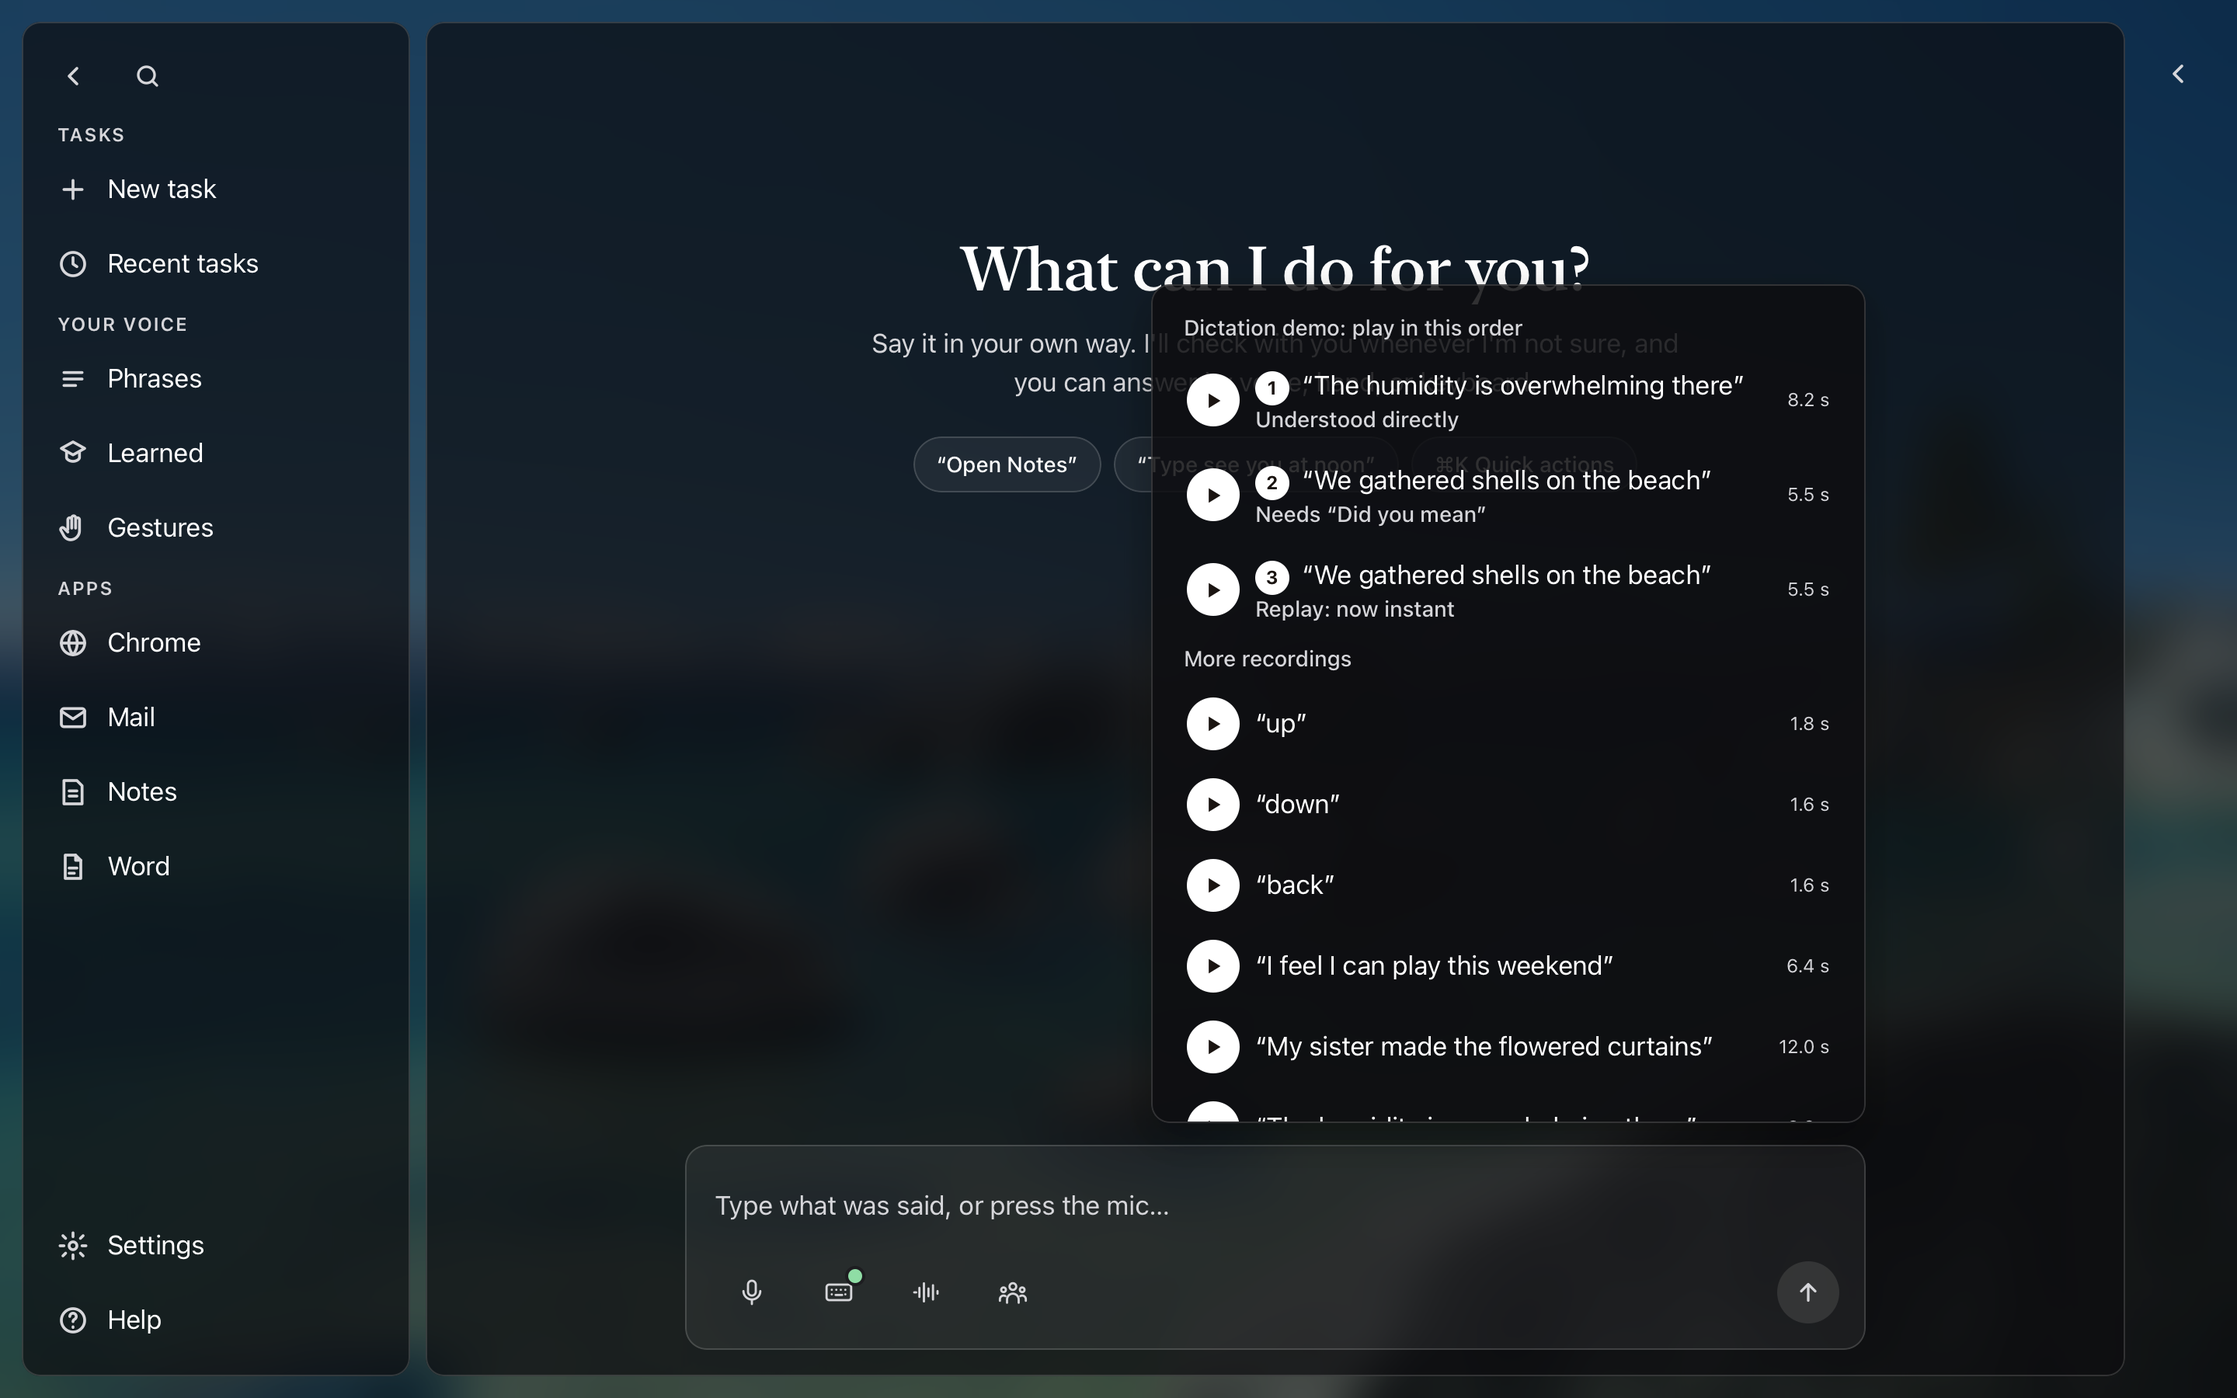
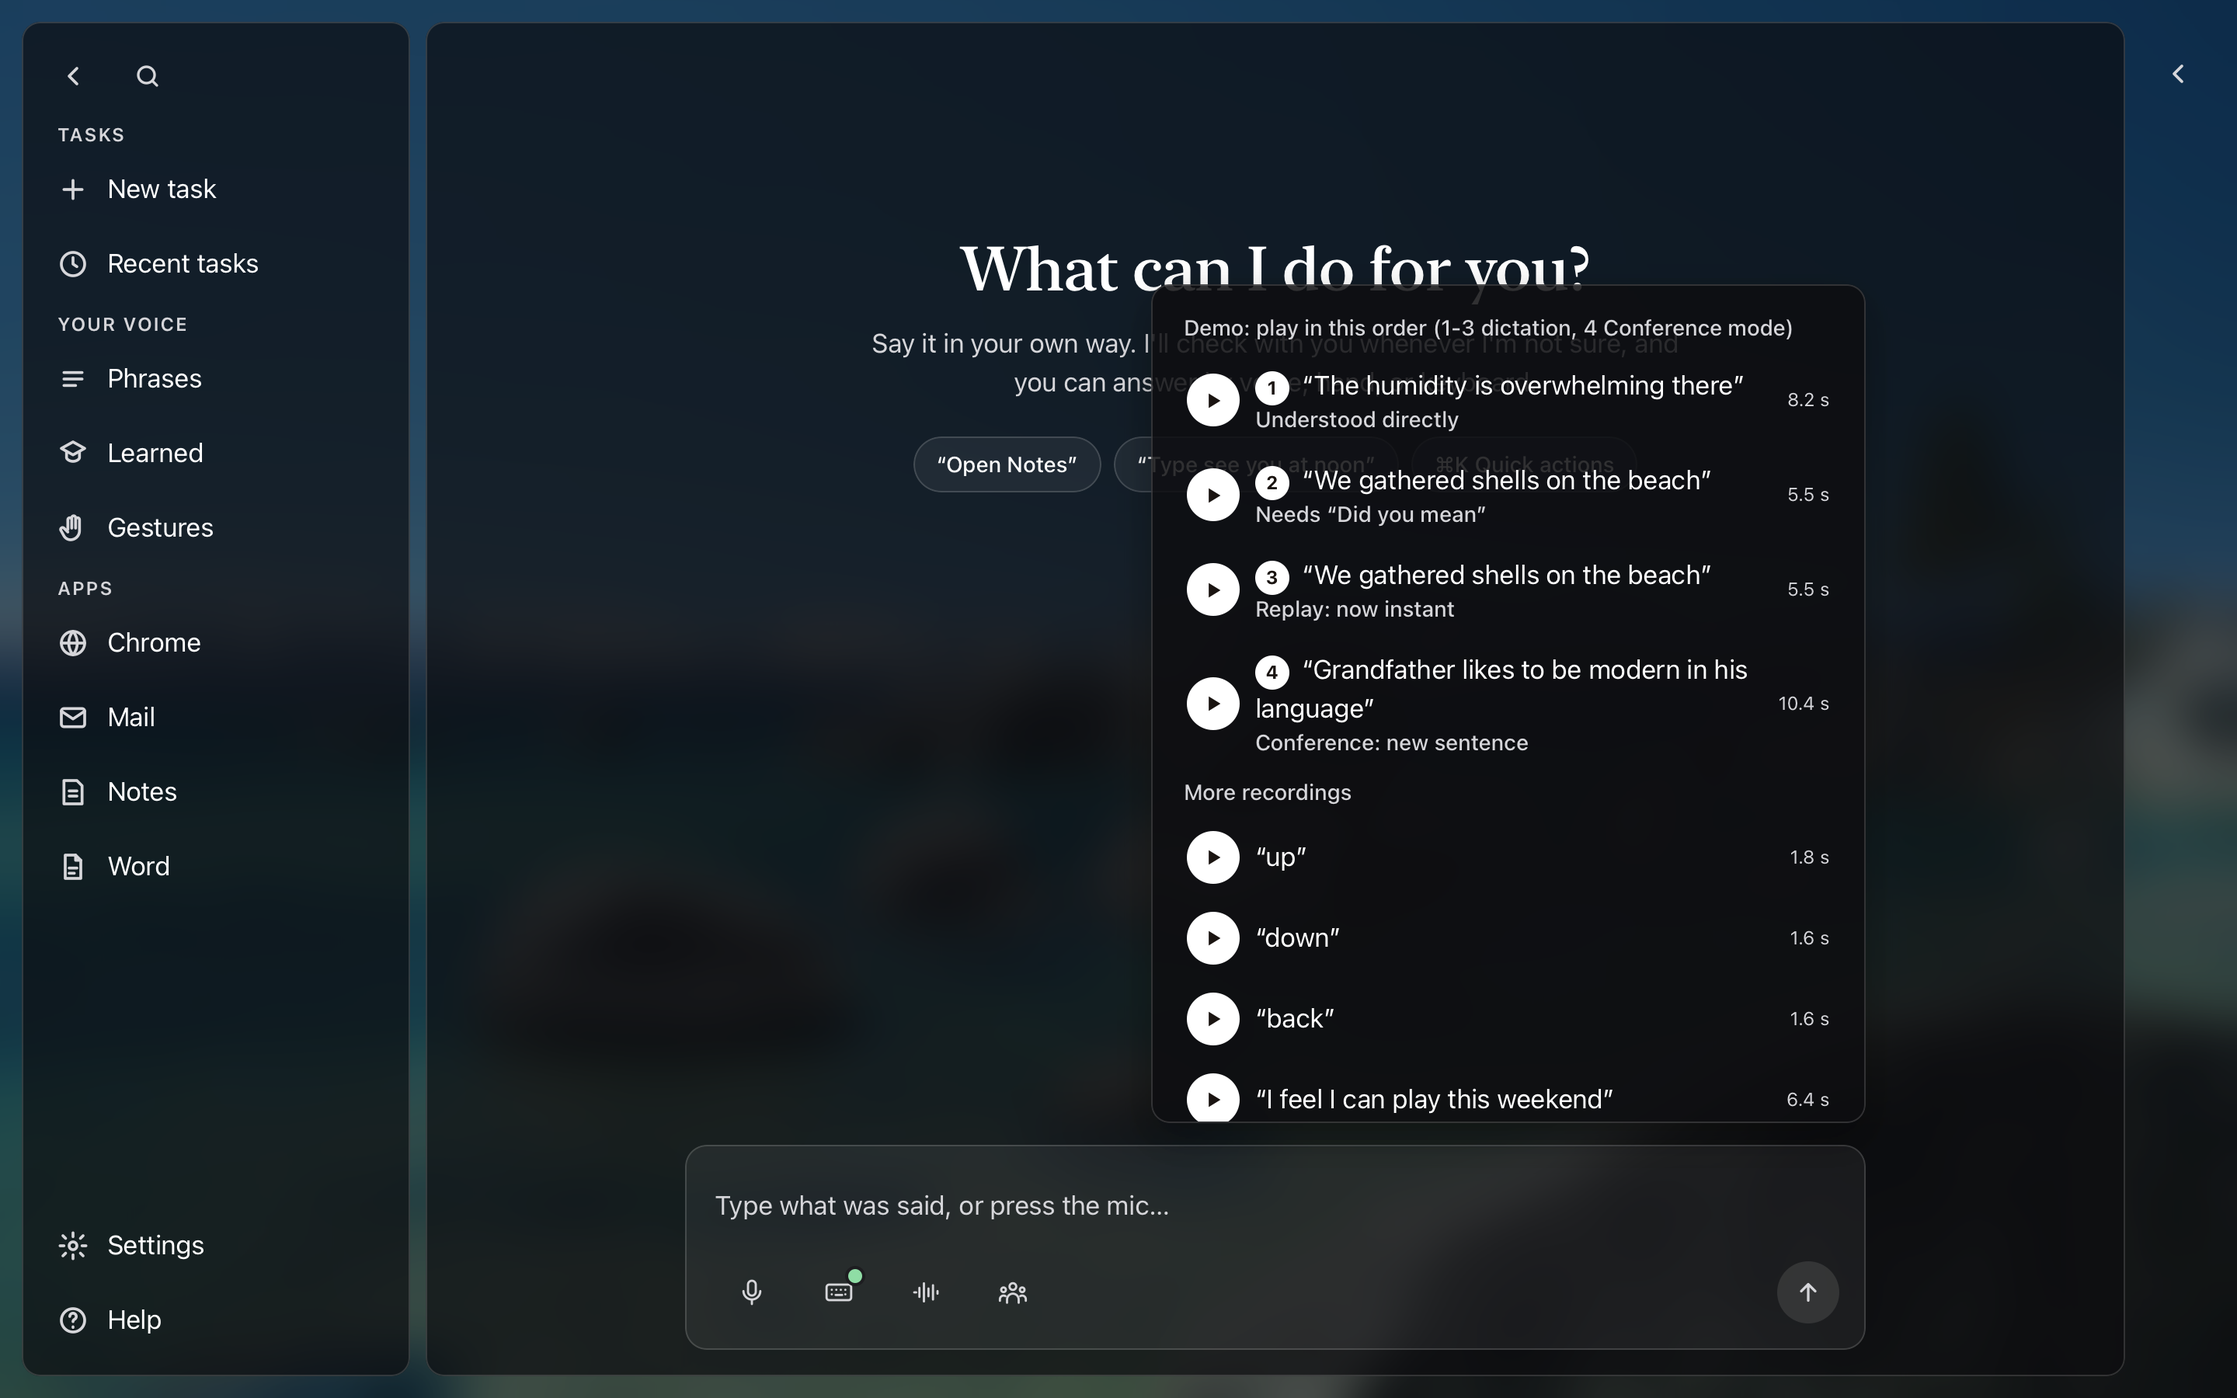
Demo clip 4 (Cmd+4, Conference: new sentence); Conference header always visible; screenshots retaken
Clip 4 is M04_2_0007 'Grandfather likes to be modern in his language': with the real WhisperKit and Bonsai,
3 of 3 runs gave one 'Did you mean' with the right sentence (card after 1.6-2.3 s); its TTSKit audio is a
whole sentence made at startup (it is one of the phrases).

Changed region(s): [[0.5312, 0.4667, 0.7812, 0.8089], [0.5312, 0.2178, 0.8125, 0.2489]]

diff --git a/ui/static/cowork.html b/ui/static/cowork.html
@@ -302,15 +302,18 @@ button.chip { min-height: var(--target); }
 /* ---- Conference mode: a calm view, readable from across a table ---- */
 .mode-label { max-width: 760px; margin: 0 auto 6px; padding-left: 18px; font: var(--label); color: var(--accent); }
 .mode-label[hidden] { display: none; }
-.conf { max-width: 860px; margin: 0 auto; padding: 22px 26px 30px; display: flex; flex-direction: column; gap: 22px; min-height: 100%; }
-.conf-head { display: flex; align-items: center; gap: 12px; flex-wrap: wrap; color: var(--muted); font: var(--label); }
+.conf { max-width: 860px; margin: 0 auto; padding: 0 26px 24px; display: flex; flex-direction: column; gap: 18px; min-height: 100%; }
+/* The header stays at the top (it was scrolled out of sight, or cut off, when the view was taller than the window). */
+.conf-head { position: sticky; top: 0; z-index: 3; display: flex; align-items: center; gap: 12px; color: var(--muted); font: var(--label);
+             padding: 14px 0 10px; background: rgba(16, 16, 18, .92); border-bottom: 1px solid var(--line); }
+.conf-head .ways { white-space: nowrap; }
 .conf-head .badge { display: inline-flex; align-items: center; gap: 8px; color: var(--accent); font-weight: 600; }
 .conf-head .badge svg { width: 18px; height: 18px; }
 .conf-head .ways { margin-left: auto; }
-.transcript { display: flex; flex-direction: column; justify-content: flex-end; gap: 14px; min-height: 160px; }
-.transcript .past { font: 400 24px/1.35 var(--serif); color: var(--muted); margin: 0; }
+.transcript { display: flex; flex-direction: column; justify-content: flex-end; gap: 10px; }
+.transcript .past { font: 400 clamp(18px, 2vw, 24px)/1.35 var(--serif); color: var(--muted); margin: 0; }
 .transcript .past.stopped { text-decoration: line-through; opacity: .7; }
-.transcript .now { font: 500 46px/1.2 var(--serif); margin: 0; overflow-wrap: anywhere; }
+.transcript .now { font: 500 clamp(28px, 3.6vw, 46px)/1.2 var(--serif); margin: 0; overflow-wrap: anywhere; }
 .transcript .now.stopped { text-decoration: line-through; color: var(--muted); }
 .transcript .state { display: flex; align-items: center; gap: 10px; font: var(--title); font-weight: 500; color: var(--muted); }
 .transcript .state svg { width: 22px; height: 22px; }
@@ -320,7 +323,7 @@ button.chip { min-height: var(--target); }
 .transcript .state .loop { border-color: rgba(242,196,107,.3); border-top-color: var(--warn); }
 .transcript .empty-said { font: 400 28px/1.35 var(--serif); color: var(--muted); margin: 0; }
 .conf-quick h3 { font: var(--label); color: var(--muted); margin: 0 0 10px; }
-.conf-quick .btn { min-height: 84px; }
+.conf-quick .btn { min-height: 68px; }
 .conf .working { display: flex; align-items: center; gap: 10px; color: var(--muted); }
 .conf .working svg { width: 20px; height: 20px; }
 
@@ -749,10 +752,10 @@ const SAID_STATE = { preparing: "Preparing voice…", speaking: "Speaking…", s
 function confHtml(s) {
   const said = s.said || [];
   const counts = s.counts || {};
-  let html = `<div class="conf"><div class="conf-head"><span class="badge">${sv(MODE_ICON.conference)}Conference mode</span><span>Speaking for you. Nothing is said until you confirm it.</span><span class="ways">${counts.examples ?? 0} ways you say things</span></div><div class="transcript">`;
-  if (!said.length) html += `<p class="empty-said">Say a sentence, choose a test clip, or pick a quick phrase below. Once you confirm it, I say it aloud to the room.</p>`;
+  let html = `<div class="conf"><div class="conf-head"><span class="badge">${sv(MODE_ICON.conference)}Conference mode</span><span class="ways">${counts.examples ?? 0} ways you say things</span></div><div class="transcript">`;
+  if (!said.length) html += `<p class="empty-said">Say a sentence, choose a test clip, or pick a quick phrase below. Nothing is said until you confirm it; then I say it aloud to the room.</p>`;
   const asking = !!s.question;   // a card needs the room: only the newest sentence stays above it
-  said.slice(asking ? -1 : -4, -1).forEach((e) => { html += `<p class="past ${e.status === "stopped" ? "stopped" : ""}">${esc(e.text)}</p>`; });
+  said.slice(asking ? -1 : -3, -1).forEach((e) => { html += `<p class="past ${e.status === "stopped" ? "stopped" : ""}">${esc(e.text)}</p>`; });
   const now = said[said.length - 1];
   if (now) {
     const icon = now.status === "preparing" ? '<span class="loop" aria-hidden="true"></span>' : now.status === "said" ? ICON.check : now.status === "stopped" ? ICON.undo : ICON.speaker;
@@ -912,7 +915,7 @@ function renderModal() {
       <tr><td>Dictation</td><td>Confirmed sentences are typed into the app you are working in. Say “type …” to dictate anything.</td></tr>
       <tr><td>Conference mode</td><td>The people icon in the composer. Cowork speaks for you in a meeting: each sentence is said aloud once you confirm it (never before). Commands are off until you switch back. Quick phrases: 1-4, a thumb, or say the number.</td></tr>
       <tr><td>Stop everything</td><td>Say “stop” or “cancel”, or press Esc twice: speaking, typing and anything waiting stop at once. What was already done stays (use Undo for that).</td></tr>
-      <tr><td>Demo clips</td><td>⌘1, ⌘2, ⌘3 play test clips 1 to 3.</td></tr>
+      <tr><td>Demo clips</td><td>⌘1 to ⌘4 play demo clips 1 to 4 (4 is for Conference mode).</td></tr>
       <tr><td>Quick actions</td><td>⌘K, or say “quick actions”.</td></tr>
       <tr><td>Results</td><td><button class="link-btn" data-view="results">See how well Cowork understands impaired speech</button></td></tr>
       <tr><td>Panels</td><td>Say “show learned”, “show progress” or “show camera”.</td></tr></table></div>`;
@@ -1157,7 +1160,7 @@ function showClips() {
   const clips = (S && S.clips) || [];
   const row = (c, n) => `<button data-clip="${esc(c.id)}"><span class="play">${ICON.play}</span><span>${n ? `<b class="step-n">${n}</b> ` : ""}“${esc(c.said)}”${c.label ? `<span class="clip-label">${esc(c.label)}</span>` : ""}</span><span class="secs">${c.seconds ? c.seconds.toFixed(1) + " s" : ""}</span></button>`;
   const demo = clips.filter((c) => c.demo), more = clips.filter((c) => !c.demo);
-  $("clips").innerHTML = (clips.length ? `<h4>Dictation demo: play in this order</h4>` + demo.map((c, i) => row(c, i + 1)).join("") +
+  $("clips").innerHTML = (clips.length ? `<h4>Demo: play in this order (1-3 dictation, 4 Conference mode)</h4>` + demo.map((c, i) => row(c, i + 1)).join("") +
     (more.length ? `<h4>More recordings</h4>` + more.map((c) => row(c, 0)).join("") : "") : '<p class="feed-empty" style="padding:0 8px">No clips found on this Mac.</p>') + `<div class="caption">${esc((S && S.credit) || "")}</div>`;
   $("clips").hidden = false; $("clipBtn").setAttribute("aria-expanded", "true");
   const first = $("clips").querySelector("button"); if (first) first.focus();
@@ -1167,8 +1170,8 @@ function hideClips() { $("clips").hidden = true; $("clipBtn").setAttribute("aria
 let lastEsc = 0;
 document.addEventListener("keydown", (e) => {
   if (!S) return;
-  // Demo backup: Cmd+1, Cmd+2, Cmd+3 play demo clips 1-3 (only in Cowork's own window)
-  if (e.metaKey && !e.shiftKey && !e.altKey && ["1", "2", "3"].includes(e.key)) {
+  // Demo backup: Cmd+1 to Cmd+4 play demo clips 1-4 (only in Cowork's own window)
+  if (e.metaKey && !e.shiftKey && !e.altKey && ["1", "2", "3", "4"].includes(e.key)) {
     e.preventDefault();
     post("/api/clip", { id: "demo" + e.key }).then((r) => r && r.problem && showToast(r.problem));
     return;

diff --git a/ui/clips.py b/ui/clips.py
@@ -35,7 +35,7 @@ CLIP_IDS = [   # commands first, then sentences (all from evaluation fold 0, hel
 ]
 
 
-# The dictation demo, in this order (checked with the real WhisperKit and Bonsai on 2026-11-14):
+# The demo, in this order (checked with the real WhisperKit and Bonsai): clips 1-3 dictation, clip 4 Conference mode
 DEMO = [
     ("M04_2_0264", "Understood directly",
      "WhisperKit hears \u201cBut humanity is overwhelming.\u201d; it is typed at once"),
@@ -43,12 +43,15 @@ DEMO = [
      "WhisperKit hears \u201cWe can get a joke on the beach.\u201d; one Yes, then it is typed and learned"),
     ("M04_2_0174", "Replay: now instant",
      "the same recording again: recognised from what was learned, typed instantly"),
+    ("M04_2_0007", "Conference: new sentence",
+     "WhisperKit hears \u201cCould grandpa like to be a model in his language?\u201d; \u201cDid you mean\u201d "
+     "Grandfather likes to be modern in his language? Yes: said aloud (checked 3 of 3 runs, 2026-11-15)"),
 ]
 
 
 def load_clips() -> list[dict]:
     """[{"id", "recording", "path", "said", "heard", "seconds", "label", "note", "demo"}]:
-    the 3 demo clips first (in order), then the other recordings."""
+    the 4 demo clips first (in order), then the other recordings."""
     try:
         index = {u["id"]: u for u in json.loads((TORGO / "utterances.json").read_text())}
         heard = {}

diff --git a/tests/test_cowork.py b/tests/test_cowork.py
@@ -379,9 +379,12 @@ clips = load_clips()
 if not (config.ROOT / "datasets" / "torgo").exists():
     print("SKIP  TORGO test clips: datasets/torgo is not on this Mac (it is not in the repo; see README.md)")
 else:
-    check("TORGO test clips found (3 demo + the rest)", len(clips), len(CLIP_IDS) + 3)
-    check("  ...the demo three first, in order", [c["label"] for c in clips[:3]],
-          ["Understood directly", "Needs \u201cDid you mean\u201d", "Replay: now instant"])
+    check("TORGO test clips found (4 demo + the rest)", len(clips), len(CLIP_IDS) + 4)
+    check("  ...the demo four first, in order", [c["label"] for c in clips[:4]],
+          ["Understood directly", "Needs \u201cDid you mean\u201d", "Replay: now instant", "Conference: new sentence"])
+    from tts.lines import to_prepare  # noqa: E402
+    check("  ...clip 4's sentence is made whole at startup (instant in Conference mode)",
+          "Grandfather likes to be modern in his language." in to_prepare(BASE, []), True)
     check("  ...the replay is the same recording", clips[1]["recording"] == clips[2]["recording"], True)
     check("  ...credit names the dataset", "TORGO" in CREDIT and "Rudzicz" in CREDIT, True)
     core, tts, actions = make()

diff --git a/tests/test_composer.py b/tests/test_composer.py
@@ -172,10 +172,10 @@ check("  ...and it stays open", js("document.querySelector('.app').classList.con
 played, stopped = [], []
 core.play_clip = lambda clip_id, play_sound=True: played.append(clip_id) or ""
 core.stop_all = lambda: stopped.append(1)
-for n in ("1", "2", "3"):
+for n in ("1", "2", "3", "4"):
     js(f"document.dispatchEvent(new KeyboardEvent('keydown', {{key: '{n}', metaKey: true, bubbles: true}}))")
 pump(0.5)
-check("Cmd+1, Cmd+2, Cmd+3 play demo clips 1-3", played, ["demo1", "demo2", "demo3"])
+check("Cmd+1 to Cmd+4 play demo clips 1-4", played, ["demo1", "demo2", "demo3", "demo4"])
 js("document.dispatchEvent(new KeyboardEvent('keydown', {key: 'Escape', bubbles: true})); document.dispatchEvent(new KeyboardEvent('keydown', {key: 'Escape', bubbles: true}))")
 pump(0.5)
 check("Esc twice stops everything", len(stopped), 1)

diff --git a/docs/video_script.md b/docs/video_script.md
@@ -21,7 +21,7 @@
 | 0:40-0:50 | Click the keyboard icon so dictation is on (green dot, Word). Press Cmd+1: clip 1 plays out loud and is typed into Word. | "Now the voice of a man with cerebral palsy, from the TORGO research recordings. WhisperKit heard 'But humanity is overwhelming'. Cowork typed what he meant." |
 | 0:50-1:05 | Press Cmd+2: "Did you mean: We gathered shells on the beach?" Raise your RIGHT hand and hold it until the bar fills. It is typed into Word. | "When it isn't sure, it asks. He can answer with a hand." |
 | 1:05-1:15 | Press Cmd+3 (the same recording again): typed at once, "Recognised instantly". | "It learned. Next time, no question at all." |
-| 1:15-1:40 | Click the people icon (Switch to Conference mode). Press Cmd+1, answer Yes (Enter or right hand). The sentence is spoken aloud. Then press 2 for "I agree." | "In a meeting, Cowork speaks for him, in a natural voice, only after he confirms." |
+| 1:15-1:40 | Click the people icon (Switch to Conference mode). Press Cmd+4 (demo clip 4, a sentence not used before): WhisperKit hears "Could grandpa like to be a model in his language?", the card asks "Did you mean: Grandfather likes to be modern in his language?". Answer Yes (Enter or right hand): it is spoken aloud at once. Then press 2 for "I agree." | "In a meeting, Cowork speaks for him, in a natural voice, only after he confirms." |
 | 1:40-1:55 | Press Cmd+K, type "results", Enter. The Results view: 8% vs 70%, 0% confidently wrong. | "WhisperKit alone got 8% exactly right. Cowork reached the right meaning 70% of the time, and was never confidently wrong." |
 | 1:55-2:00 | Close the Results view. | "Bonsai and Argmax, fully offline. Cowork." |
 
@@ -29,4 +29,4 @@
 - A wrong guess: say "no" (or press Esc), it offers other options; or say "stop".
 - Anything stuck: press Esc twice (stops everything), then "New task".
 - The window is in the corner and you need the full one: say "show Cowork", or click the expand icon.
-- Cmd+1/2/3 only work while Cowork's full window is in front.
+- Cmd+1 to Cmd+4 only work while Cowork's full window is in front.

diff --git a/docs/MORNING.md b/docs/MORNING.md
@@ -39,6 +39,15 @@ could be tried live. Please try each once (2 minutes):
 - [ ] Mini window: a question it can't say aloud makes one soft chime and the window glows.
 - [ ] Esc twice stops everything; Cmd+1/2/3 play the clips.
 
+## Added after the night (2026-11-15)
+- **Writing mode:** after "reply to this email" (or forward, new email, new document) just speak: everything is
+  typed there ("Writing your reply" shows). Finish with "send" / "press send" / "send it" (the permission card) or
+  "done". Sending really happens only if every recipient is your own address ("Me" in profiles/contacts.json);
+  for anyone else it says "Sending to other people is turned off in this demo" and leaves the draft open.
+- **Quick phrases never wait:** pressing 1-4 one after another always speaks the newest one.
+- **Demo clip 4 (Cmd+4)** for Conference mode: "Grandfather likes to be modern in his language" (one "Did you
+  mean", Yes, spoken at once; checked 3 of 3 runs with the real WhisperKit and Bonsai).
+
 ## 4. Known issues and how to avoid them in the demo
 - The first request after starting (or after it learns something) can take 4 to 6 seconds while Bonsai reads its
   instructions. Do one throw-away request before recording.
@@ -46,7 +55,7 @@ could be tried live. Please try each once (2 minutes):
   your phrases are made in advance, so they play at once.
 - Hands-free listening (in the corner window) also hears other people in the room. Keep the room quiet, or say
   "stop listening".
-- Cmd+1/2/3 only work while Cowork's full window is in front ("show Cowork" brings it back).
+- Cmd+1 to Cmd+4 only work while Cowork's full window is in front ("show Cowork" brings it back).
 - Don't show "send": it asks, and then refuses on purpose (sending is switched off).
 - With speaking on, "read out my latest email" usually stays silent (an email is always a new sentence and the voice
   needs more than 2 seconds); with speaking off it opens the email instead.
